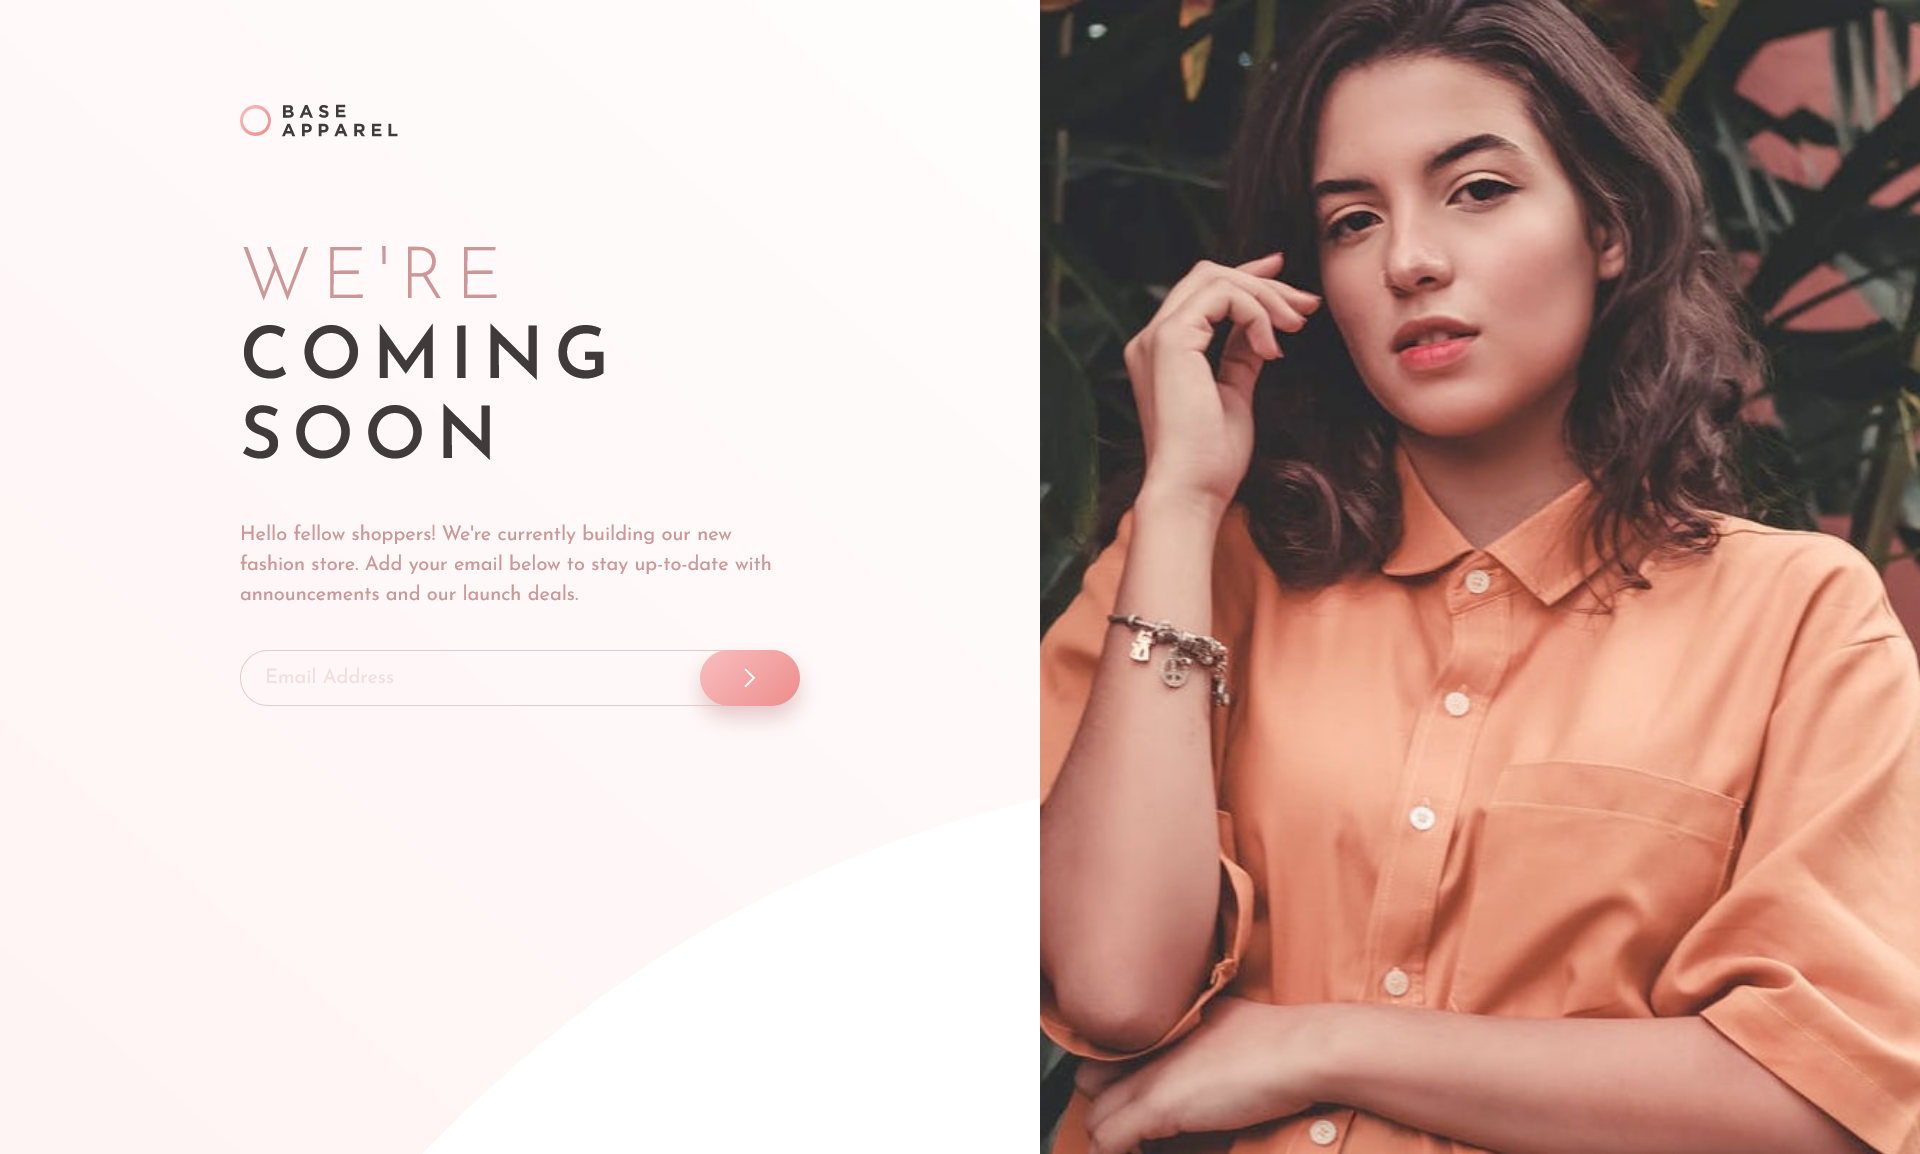
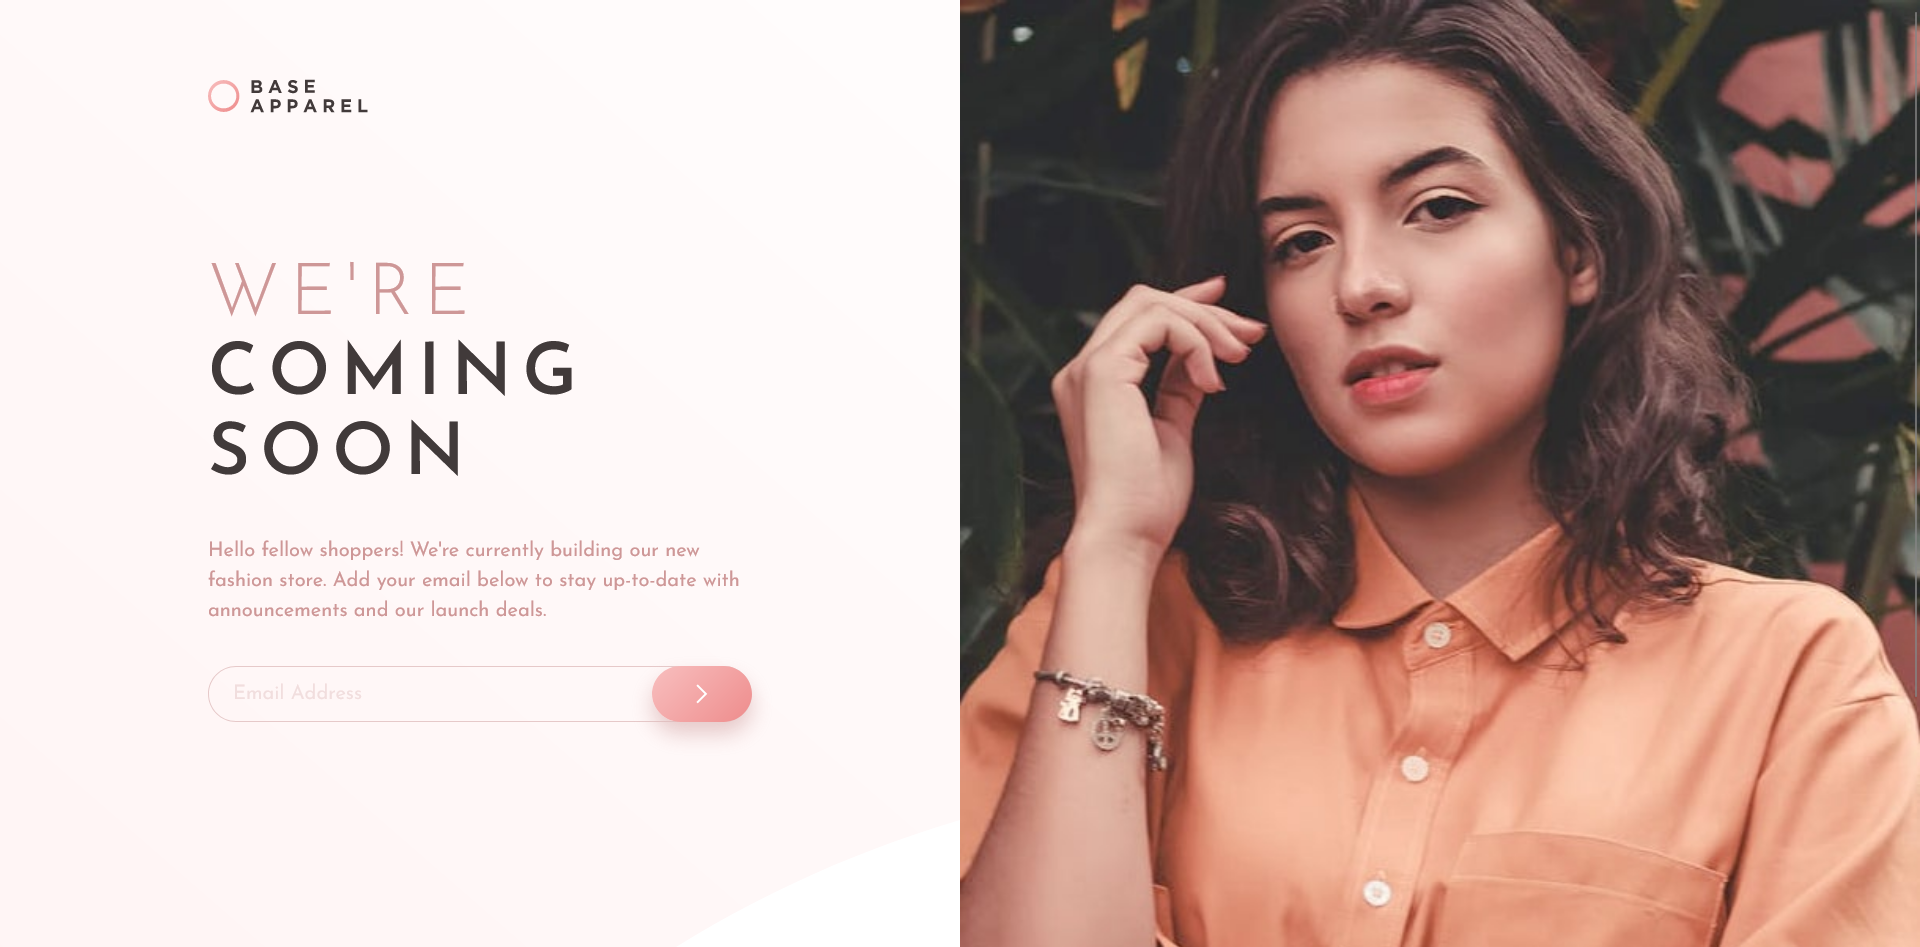
Added README

diff --git a/style.css b/style.css
@@ -152,7 +152,6 @@ picture, picture > img {
       "header aside"
       "main aside";
     grid-template-columns: repeat(2, 1fr);
-    grid-template-rows: clamp(5rem, 10vw, 15rem) auto;
     background-image: url('./images/bg-pattern-desktop.svg');
     background-size: cover;
   }
@@ -166,7 +165,7 @@ picture, picture > img {
   }
 
   .hero-section__body {
-    padding: 4rem 13rem;
+    padding: 0rem 13rem;
     text-align: left;
     font-size: 1.25rem;
     gap: 2.5rem;

diff --git a/README.md b/README.md
@@ -1,22 +1,26 @@
-# Frontend Mentor - Base Apparel coming soon page
+# Frontend Mentor - Base Apparel coming soon page solution
 
-![Design preview for the Base Apparel coming soon page coding challenge](./design/desktop-preview.jpg)
+This is a solution to the [Base Apparel coming soon page challenge on Frontend Mentor](https://www.frontendmentor.io/challenges/base-apparel-coming-soon-page-5d46b47f8db8a7063f9331a0). Frontend Mentor challenges help you improve your coding skills by building realistic projects. 
 
-## Welcome! 👋
+## Table of contents
 
-Thanks for checking out this front-end coding challenge.
+- [Overview](#overview)
+  - [The challenge](#the-challenge)
+  - [Screenshot](#screenshot)
+  - [Links](#links)
+- [My process](#my-process)
+  - [Built with](#built-with)
+  - [What I learned](#what-i-learned)
+  - [Continued development](#continued-development)
+  - [Useful resources](#useful-resources)
+- [Author](#author)
+- [Acknowledgments](#acknowledgments)
 
-[Frontend Mentor](https://www.frontendmentor.io) challenges help you improve your coding skills by building realistic projects.
+## Overview
 
-**To do this challenge, you need a basic understanding of HTML, CSS and JavaScript.**
+### The challenge
 
-## The challenge
-
-Your challenge is to build out this coming soon page and get it looking as close to the design as possible.
-
-You can use any tools you like to help you complete the challenge. So if you've got something you'd like to practice, feel free to give it a go.
-
-Your users should be able to:
+Users should be able to:
 
 - View the optimal layout for the site depending on their device's screen size
 - See hover states for all interactive elements on the page
@@ -24,72 +28,58 @@ Your users should be able to:
   - The `input` field is empty
   - The email address is not formatted correctly
 
-Want some support on the challenge? [Join our Slack community](https://www.frontendmentor.io/slack) and ask questions in the **#help** channel.
+### Screenshot
 
-## Where to find everything
+![](./design/screenshot-desktop.png)
 
-Your task is to build out the project to the designs inside the `/design` folder. You will find both a mobile and a desktop version of the design. 
+### Links
 
-The designs are in JPG static format. Using JPGs will mean that you'll need to use your best judgment for styles such as `font-size`, `padding` and `margin`. 
+- Solution URL: [GitHub](https://github.com/mbdelarosa/base-apparel-coming-soon)
+- Live Site URL: [Base Apparel Coming Soon](https://mbdelarosa.github.io/base-apparel-coming-soon/)
 
-If you would like the design files (we provide Sketch & Figma versions) to inspect the design in more detail, you can [subscribe as a PRO member](https://www.frontendmentor.io/pro).
+## My process
 
-You will find all the required assets in the `/images` folder. The assets are already optimized.
+### Built with
 
-There is also a `style-guide.md` file containing the information you'll need, such as color palette and fonts.
+- Semantic HTML5 markup
+- CSS custom properties
+- Flexbox
+- CSS Grid
+- Javascript
+- Mobile-first workflow
+- BEM naming convention
 
-## Building your project
+### What I learned
 
-Feel free to use any workflow that you feel comfortable with. Below is a suggested process, but do not feel like you need to follow these steps:
+Learnings from this challenge:
+- How to use the `layout-gradient()` function to make the gradients
+- How to use `position: absolute` to layout the input field with the submit button and custom error message and icon
+- Input fields should have a companion label
+- How to properly use the ARIA attributes on the form
+  - Use of `aria-invalid` with true/false value to determine whether the error icon and message should be displayed
+  - Use of `aria-live: polite` for the error message
+  - Use of `aria-describedby` to link the input field to the error message
+- How to properly display the error message
+  - The error element linked must always be present in the DOM, but the content within should be empty so that certain screen readers wouldn't read out the error message all the time. The error message can then be added using javascript once the form is submitted and an invalid input was entered
 
-1. Initialize your project as a public repository on [GitHub](https://github.com/). Creating a repo will make it easier to share your code with the community if you need help. If you're not sure how to do this, [have a read-through of this Try Git resource](https://try.github.io/).
-2. Configure your repository to publish your code to a web address. This will also be useful if you need some help during a challenge as you can share the URL for your project with your repo URL. There are a number of ways to do this, and we provide some recommendations below.
-3. Look through the designs to start planning out how you'll tackle the project. This step is crucial to help you think ahead for CSS classes to create reusable styles.
-4. Before adding any styles, structure your content with HTML. Writing your HTML first can help focus your attention on creating well-structured content.
-5. Write out the base styles for your project, including general content styles, such as `font-family` and `font-size`.
-6. Start adding styles to the top of the page and work down. Only move on to the next section once you're happy you've completed the area you're working on.
+I also made use of `clamp()` here to set the `font-size` so I was able to read up on that finally, though I do think I still need more practice :sweat_smile:
 
-## Deploying your project
+### Continued development
 
-As mentioned above, there are many ways to host your project for free. Our recommend hosts are:
+Interested to learn more about ARIA for future challenges that includes forms and other interactive elements, as well as making the design more responsive with grid and `clamp()`
 
-- [GitHub Pages](https://pages.github.com/)
-- [Vercel](https://vercel.com/)
-- [Netlify](https://www.netlify.com/)
+### Useful resources
 
-You can host your site using one of these solutions or any of our other trusted providers. [Read more about our recommended and trusted hosts](https://medium.com/frontend-mentor/frontend-mentor-trusted-hosting-providers-bf000dfebe).
+- ["HTML Inputs and Labels: A Love Story"](https://css-tricks.com/html-inputs-and-labels-a-love-story/) by Amber Wilson on CSS-Tricks - Very insightful article on why inputs should have a companion label
+- Youtube videos from Kevin Powell:
+  - ["Position absolute and responsive layouts"](https://youtu.be/H04P5YXVssE) - This tutorial helped me understand how `position: absolute` works and was able to use it in this challenge to layout the customized input field
+  - ["min(), max(), and clamp() are CSS magic!"](https://youtu.be/U9VF-4euyRo) - On how to use `clamp()` to make the font-size responsive based on the width
+- This [regular expression from RegExr](https://regexr.com/3e48o) for the email address validation
 
-## Create a custom `README.md`
+## Author
 
-We strongly recommend overwriting this `README.md` with a custom one. We've provided a template inside the [`README-template.md`](./README-template.md) file in this starter code.
+- Frontend Mentor - [@mbdelarosa](https://www.frontendmentor.io/profile/mbdelarosa)
 
-The template provides a guide for what to add. A custom `README` will help you explain your project and reflect on your learnings. Please feel free to edit our template as much as you like.
+## Acknowledgments
 
-Once you've added your information to the template, delete this file and rename the `README-template.md` file to `README.md`. That will make it show up as your repository's README file.
-
-## Submitting your solution
-
-Submit your solution on the platform for the rest of the community to see. Follow our ["Complete guide to submitting solutions"](https://medium.com/frontend-mentor/a-complete-guide-to-submitting-solutions-on-frontend-mentor-ac6384162248) for tips on how to do this.
-
-Remember, if you're looking for feedback on your solution, be sure to ask questions when submitting it. The more specific and detailed you are with your questions, the higher the chance you'll get valuable feedback from the community.
-
-## Sharing your solution
-
-There are multiple places you can share your solution:
-
-1. Share your solution page in the **#finished-projects** channel of the [Slack community](https://www.frontendmentor.io/slack). 
-2. Tweet [@frontendmentor](https://twitter.com/frontendmentor) and mention **@frontendmentor**, including the repo and live URLs in the tweet. We'd love to take a look at what you've built and help share it around.
-3. Share your solution on other social channels like LinkedIn.
-4. Blog about your experience building your project. Writing about your workflow, technical choices, and talking through your code is a brilliant way to reinforce what you've learned. Great platforms to write on are [dev.to](https://dev.to/), [Hashnode](https://hashnode.com/), and [CodeNewbie](https://community.codenewbie.org/).
-
-We provide templates to help you share your solution once you've submitted it on the platform. Please do edit them and include specific questions when you're looking for feedback. 
-
-The more specific you are with your questions the more likely it is that another member of the community will give you feedback.
-
-## Got feedback for us?
-
-We love receiving feedback! We're always looking to improve our challenges and our platform. So if you have anything you'd like to mention, please email hi[at]frontendmentor[dot]io.
-
-This challenge is completely free. Please share it with anyone who will find it useful for practice.
-
-**Have fun building!** 🚀
+Many thanks to Grace Snow for the code review and insights on accessibility :raised_hands:
